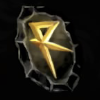
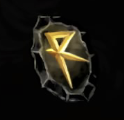
Further rune matcher component styling and write method to evaluate correct rune combination.

Changed region(s): [[0.15, 0.06, 0.81, 0.93], [0.6, 0.39, 0.63, 0.42]]

diff --git a/ngDragonsCrown/src/app/components/rune-matcher/rune-matcher.component.html b/ngDragonsCrown/src/app/components/rune-matcher/rune-matcher.component.html
@@ -1,23 +1,30 @@
 <div class="wrapper">
-  <div *ngIf="hasCurrentSpell" style="position: absolute; top: 0; display: flex; flex-direction: column; align-items: center; padding-top: 25px;">
-    <label for="spellRunes">{{ this.currentSpell.name }}</label>
-    <div style="display: flex; gap: 15px;">
-      <img *ngFor="let runeId of this.currentSpell.runes;" style="width: 50px; height: 50px; border: 1px solid #fff;" [src]="getRuneImageUrl(runeId)" alt="rune.png">
-    </div>
+  <div *ngIf="hasCurrentSpell" class="spell-counter" style="position: absolute; top: 0; left: 0; width: 165px; height: 40px; display: flex; justify-content: center; align-items: center; text-align: justify;">
+    <h6 style="margin: 0;">Rune Spells: {{ spellKey.length - spells.length }} / {{ spellKey.length }}</h6>
   </div>
-  <div *ngIf="noSpellsRemaining">
-    <p>No spells remaining.</p>
-  </div>
-  <div style="display: flex; flex-direction: column; gap: 10px; position: absolute; bottom: 0; padding-bottom: 25px;">
-    <div style="display: flex; flex-direction: column;">
-      <!-- <label for="carriedRunes">Carried Runes</label> -->
-      <div class="carried-runes" style="display: flex; gap: 10px;">
-        <img *ngFor="let carriedRune of this.carriedRunes; let i = index;" style="width: 50px; height: 50px; border: 1px solid #fff; cursor: pointer;" src="{{ carriedRune.imageUrl }}" alt="" (click)="selectRune(carriedRune.id)" [style.--wave-delay]="getDelay(i) + 's'">
+  <div *ngIf="hasCurrentSpell" style="width: 240px; height: 135px; background-color: #000000; display: flex; justify-content: center; border-radius: 3px; border: 1px solid #fff; position: absolute; top: 0;">
+    <div *ngIf="!noSpellsRemaining" style="display: flex; flex-direction: column; align-items: center; justify-content: space-evenly;">
+      <label for="spellRunes">{{ currentSpell.name }}</label>
+      <div style="display: flex; gap: 15px;">
+        <img *ngFor="let runeId of this.currentSpell.runes;" style="width: 50px; height: 50px;" [src]="getRuneImageUrl(runeId)" alt="rune.png">
       </div>
     </div>
-    <div style="display: flex; justify-content: space-between;">
-      <button class="option-buttons" (click)="getSpell()">Choose Spell</button>
-      <button class="option-buttons" (click)="restart()">Restart</button>
+    <div *ngIf="noSpellsRemaining" style="display: flex; align-items: center; justify-content: center;">
+      <h6 style="margin: 0;">No spells remaining.</h6>
+    </div>
+  </div>
+  <div style="width: 400px; height: 135px; background-color: #000000; display: flex; justify-content: center; align-items: flex-end; border-radius: 3px; border: 1px solid #fff; position: absolute; bottom: 0;">
+    <div style="display: flex; flex-direction: column; gap: 20px; padding-bottom: 15px;">
+      <div style="display: flex; flex-direction: column;">
+        <div class="carried-runes" style="display: flex; gap: 10px;">
+          <img class="no-animation" *ngFor="let carriedRune of this.carriedRunes; let i = index;" style="width: 50px; height: 50px; cursor: pointer;" src="{{ carriedRune.imageUrl }}" alt="" (click)="selectRune(carriedRune.id)" [style.--wave-delay]="getDelay(i) + 's'" [class.selected]="isSelected(carriedRune.id)">
+        </div>
+      </div>
+      <div style="display: flex; justify-content: space-between;">
+        <button class="option-buttons" (click)="getSpell()">{{ hasCurrentSpell ? 'Next' : 'Begin' }}</button>
+        <button class="option-buttons" (click)="restart()">Restart</button>
+      </div>
     </div>
   </div>
 </div>
+<!-- #0344598a; -->

diff --git a/ngDragonsCrown/src/app/components/rune-matcher/rune-matcher.component.css b/ngDragonsCrown/src/app/components/rune-matcher/rune-matcher.component.css
@@ -4,12 +4,24 @@
   flex-direction: column;
   align-items: center;
   justify-content: space-between;
+  position: relative;
 }
 
 .carried-runes img {
+  opacity: 0.7;
+  filter: drop-shadow(2px 4px 4px rgba(0, 0, 0, 0.5));
+  transition: filter 0.6s, opacity 0.3s, transform 0.3s ease-in-out;
   animation: float 2s ease-in-out infinite;
   will-change: animation;
-  animation-delay: var(--wave-delay, 0s); /* Default to 0s if not set */
+  animation-delay: var(--wave-delay, 0s);
+}
+
+.carried-runes img:hover {
+  filter: drop-shadow(2px 4px 10px rgba(0, 0, 0, 0.5)) brightness(1.2) !important;
+  opacity: 1 !important;
+  cursor: pointer;
+  /* transform: translateY(-5px) scale(1.1);
+  animation: none; */
 }
 
 @keyframes float {
@@ -24,15 +36,32 @@
   }
 }
 
+@keyframes shake {
+  0%, 100% {
+    transform: translateX(0);
+  }
+  10%, 30%, 50%, 70%, 90% {
+    transform: translateX(-10px);
+  }
+  20%, 40%, 60%, 80% {
+    transform: translateX(10px);
+  }
+}
+
+.shake-animation {
+  animation: shake 0.8s cubic-bezier(0.36, 0.07, 0.19, 0.97) both;
+}
+
 .option-buttons {
-  border: 1px solid transparent;
+  border: 1px solid #ffd602;
   margin-bottom: -1px;
   border-radius: 0 0 0 0;
   width: 125px;
   font-family: Oswald, serif;
   text-rendering: geometricprecision;
   letter-spacing: 0.1rem;
-  background-color:rgba(153, 153, 153, 0.088);
+  /* background-color:rgba(153, 153, 153, 0.088); */
+  background-color: rgb(3 68 89);
   transition: background-color 0.2s ease-out, border 0.2s ease-out;
   color: #fff;
 }
@@ -42,3 +71,41 @@
   border: 1px solid #fff;
 }
 
+.selected {
+  border-radius: 25px;
+  animation: none !important;
+  box-shadow: rgb(244 67 54) 0px 0px 0px 3px;
+  filter: drop-shadow(2px 4px 10px rgba(0, 0, 0, 0.5)) brightness(1.2) !important;
+  opacity: 1 !important;
+}
+
+@keyframes pulseBorder {
+  0% {
+    box-shadow: 0 0 0 0 rgba(255, 230, 0, 0.7);
+  }
+  70% {
+    box-shadow: 0 0 10px 10px rgba(0, 123, 255, 0);
+  }
+  100% {
+    box-shadow: 0 0 0 0 rgba(0, 123, 255, 0);
+  }
+}
+
+@keyframes shining {
+  0% {
+    left: -75%;
+  }
+  /* Adjust the percentage to control the speed of the animation */
+  5% { /* 2s of animation within a 5s interval -> 2/5 = 40% */
+    left: 125%;
+  }
+  100% {
+    left: 125%; /* Remain at the end position for the rest of the cycle */
+  }
+}
+
+.no-animation {
+  animation: none !important;
+  filter: drop-shadow(2px 4px 10px rgba(0, 0, 0, 0.5)) brightness(1.2) !important;
+  opacity: 1 !important;
+}

diff --git a/ngDragonsCrown/src/app/components/rune-matcher/rune-matcher.component.ts b/ngDragonsCrown/src/app/components/rune-matcher/rune-matcher.component.ts
@@ -55,7 +55,7 @@ export class RuneMatcherComponent implements OnInit {
     const response = await fetch('/assets/runes.json');
     const data = await response.json();
     this.runeKey = data.runes;
-    this.spellKey = data.spells;
+    this.spellKey = [...data.spells];
     this.carriedRunes = data.runes.filter((rune: Rune) => rune.isCarried);
     this.carvedRunes = data.runes.filter((rune: Rune) => !rune.isCarried);
     this.spells = data.spells;
@@ -63,6 +63,10 @@ export class RuneMatcherComponent implements OnInit {
   }
 
   getSpell() {
+    console.log("Spell Key: ", this.spellKey.length);
+    const imageElements = document.querySelectorAll('.carried-runes img');
+    imageElements.forEach(element => element.classList.remove('no-animation'));
+    console.log(imageElements);
     if (this.selectedRunes) {
       this.selectedRunes = [];
     }
@@ -82,7 +86,7 @@ export class RuneMatcherComponent implements OnInit {
         });
         this.currentCarvedRunes = this.currentRunes.filter(r => !r.isCarried);
         console.log("Current Carved Runes: ", this.currentCarvedRunes);
-        this.playSound('confirm');
+        this.playSound('pageflip');
       } catch (error) {
         console.error('Error choosing spell.');
       }
@@ -94,6 +98,11 @@ export class RuneMatcherComponent implements OnInit {
 
   restart() {
     this.fetchData();
+    if (this.selectedRunes) {
+      this.selectedRunes = [];
+    }
+    const imageElements = document.querySelectorAll('.carried-runes img');
+    imageElements.forEach(element => element.classList.add('no-animation'));
     this.hasCurrentSpell = false;
     this.playSound('erase');
   }
@@ -129,5 +138,19 @@ export class RuneMatcherComponent implements OnInit {
         }
       }
     }
+  }
+
+  isSelected(runeId: number): boolean {
+    return this.selectedRunes.some(r => r.id === runeId);
+  }
+
+  evaluateCombination(spellRunes: Rune[], userRunes: Rune[]): boolean {
+    let counter = 0;
+    spellRunes.forEach(spellRune => {
+      if (userRunes.some(userRune => userRune.id === spellRune.id)) {
+        counter++;
+      }
+    });
+    return counter === spellRunes.length;
   }
 }

diff --git a/ngDragonsCrown/src/app/components/home/home.component.css b/ngDragonsCrown/src/app/components/home/home.component.css
@@ -842,7 +842,6 @@ html {
 .rune-wrapper {
   display: flex;
   width: 100%;
-  /* border: 1px solid rgb(202, 179, 92); */
   border: 1px solid #ffd602;
   background-color: rgba(0, 0, 0, 0.6);
   padding: 5px 10px;
@@ -850,7 +849,7 @@ html {
   background-image: url(https://live.staticflickr.com/65535/53582582661_9249e7a6dc_k.jpg);
   background-size: cover;
   background-repeat: no-repeat;
-  position: relative;
+  padding-top: 15px;
 }
 
 .rune-wrapper::before {

diff --git a/ngDragonsCrown/src/app/components/home/home.component.html b/ngDragonsCrown/src/app/components/home/home.component.html
@@ -424,7 +424,7 @@
           <button class="build-buttons" mat-button (click)="exportBuildAsTextFile()">Export as Text File</button>
         </div>
         <div class="rune-wrapper" style="padding-bottom: 15px;" *ngIf="classSelected && viewRunes">
-          <app-rune-matcher style="z-index: 1;"></app-rune-matcher>
+          <app-rune-matcher style="z-index: 1; width: 100%;"></app-rune-matcher>
         </div>
       </div>
       <div class="bdiv">
